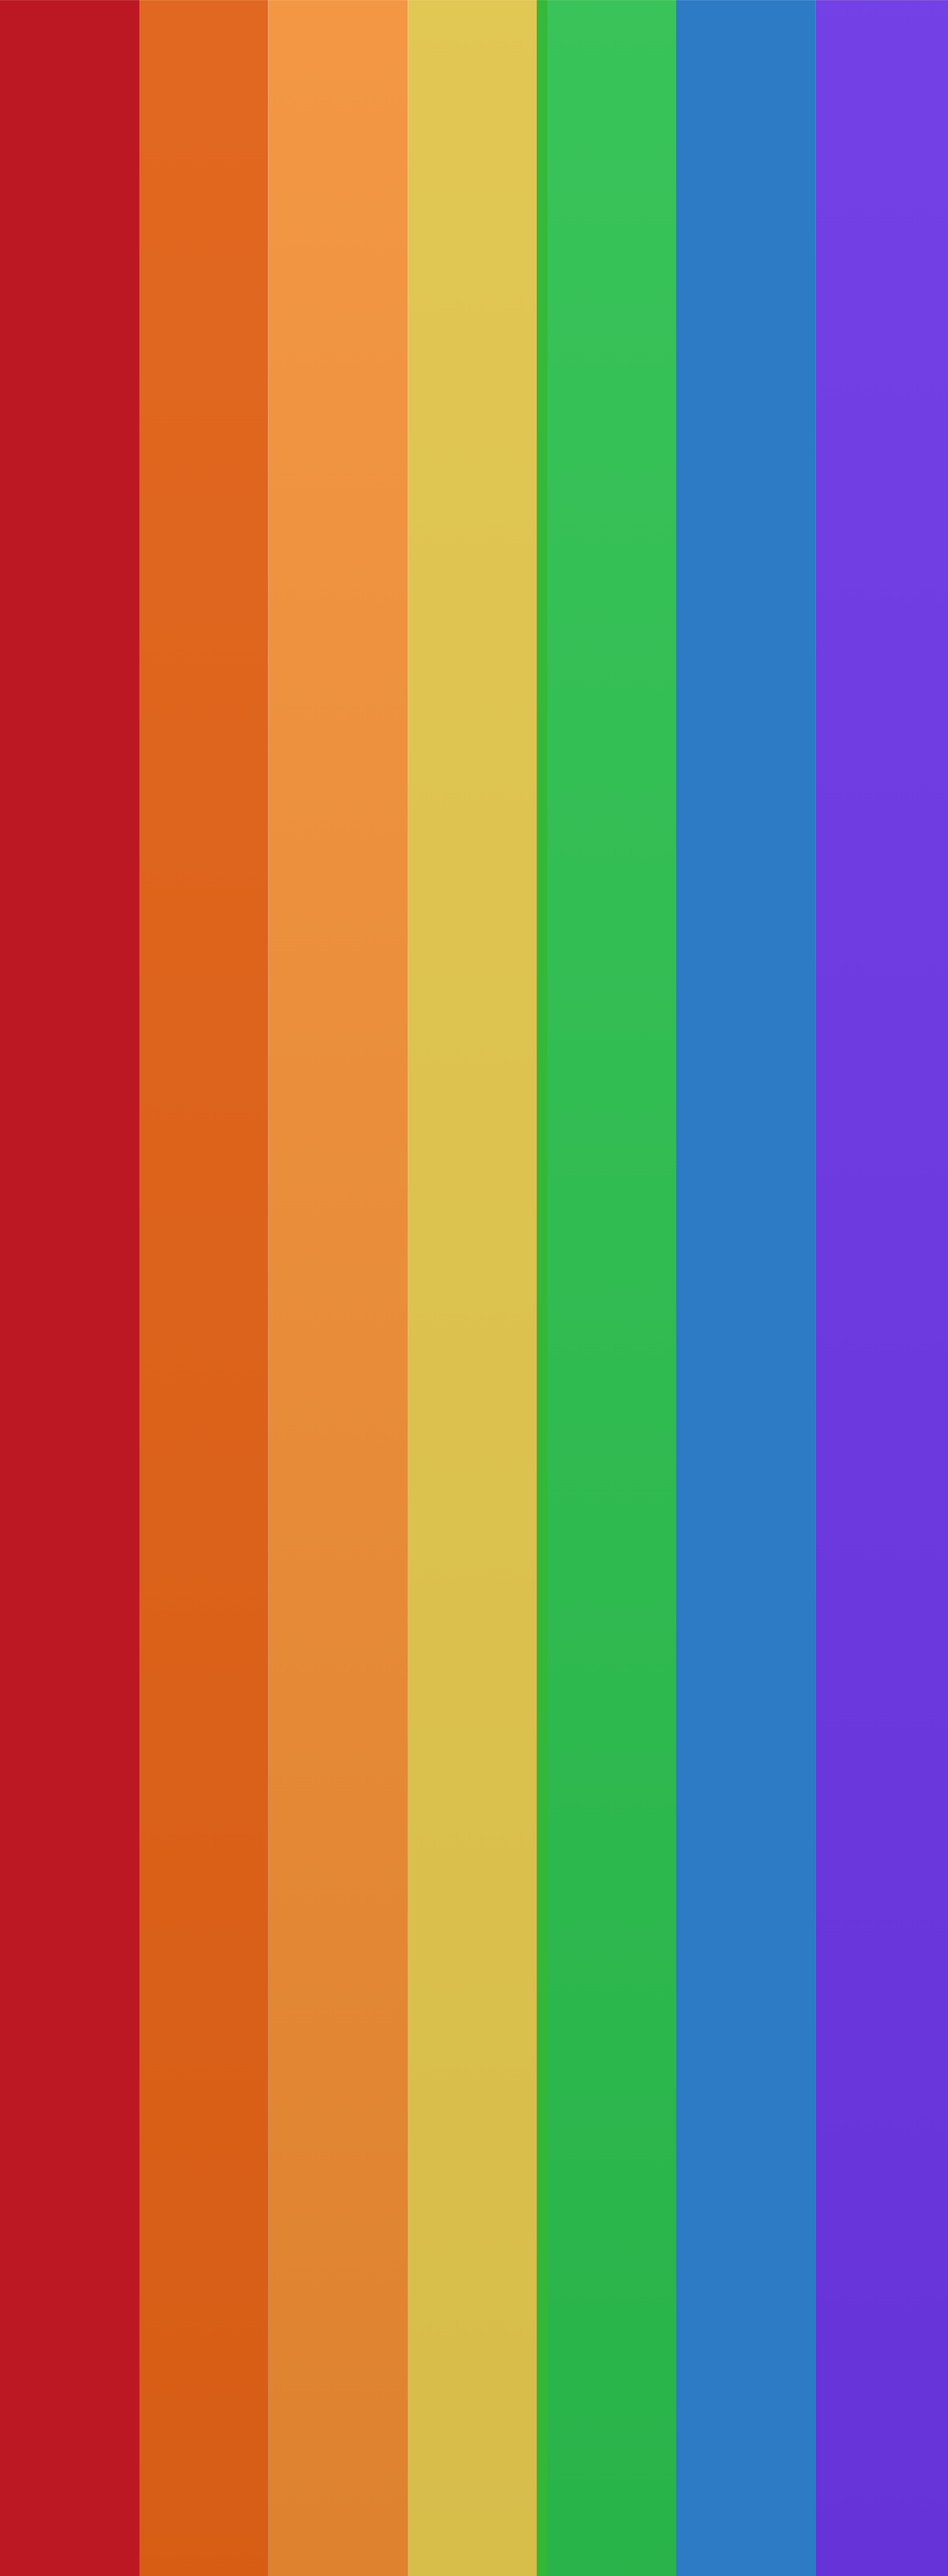
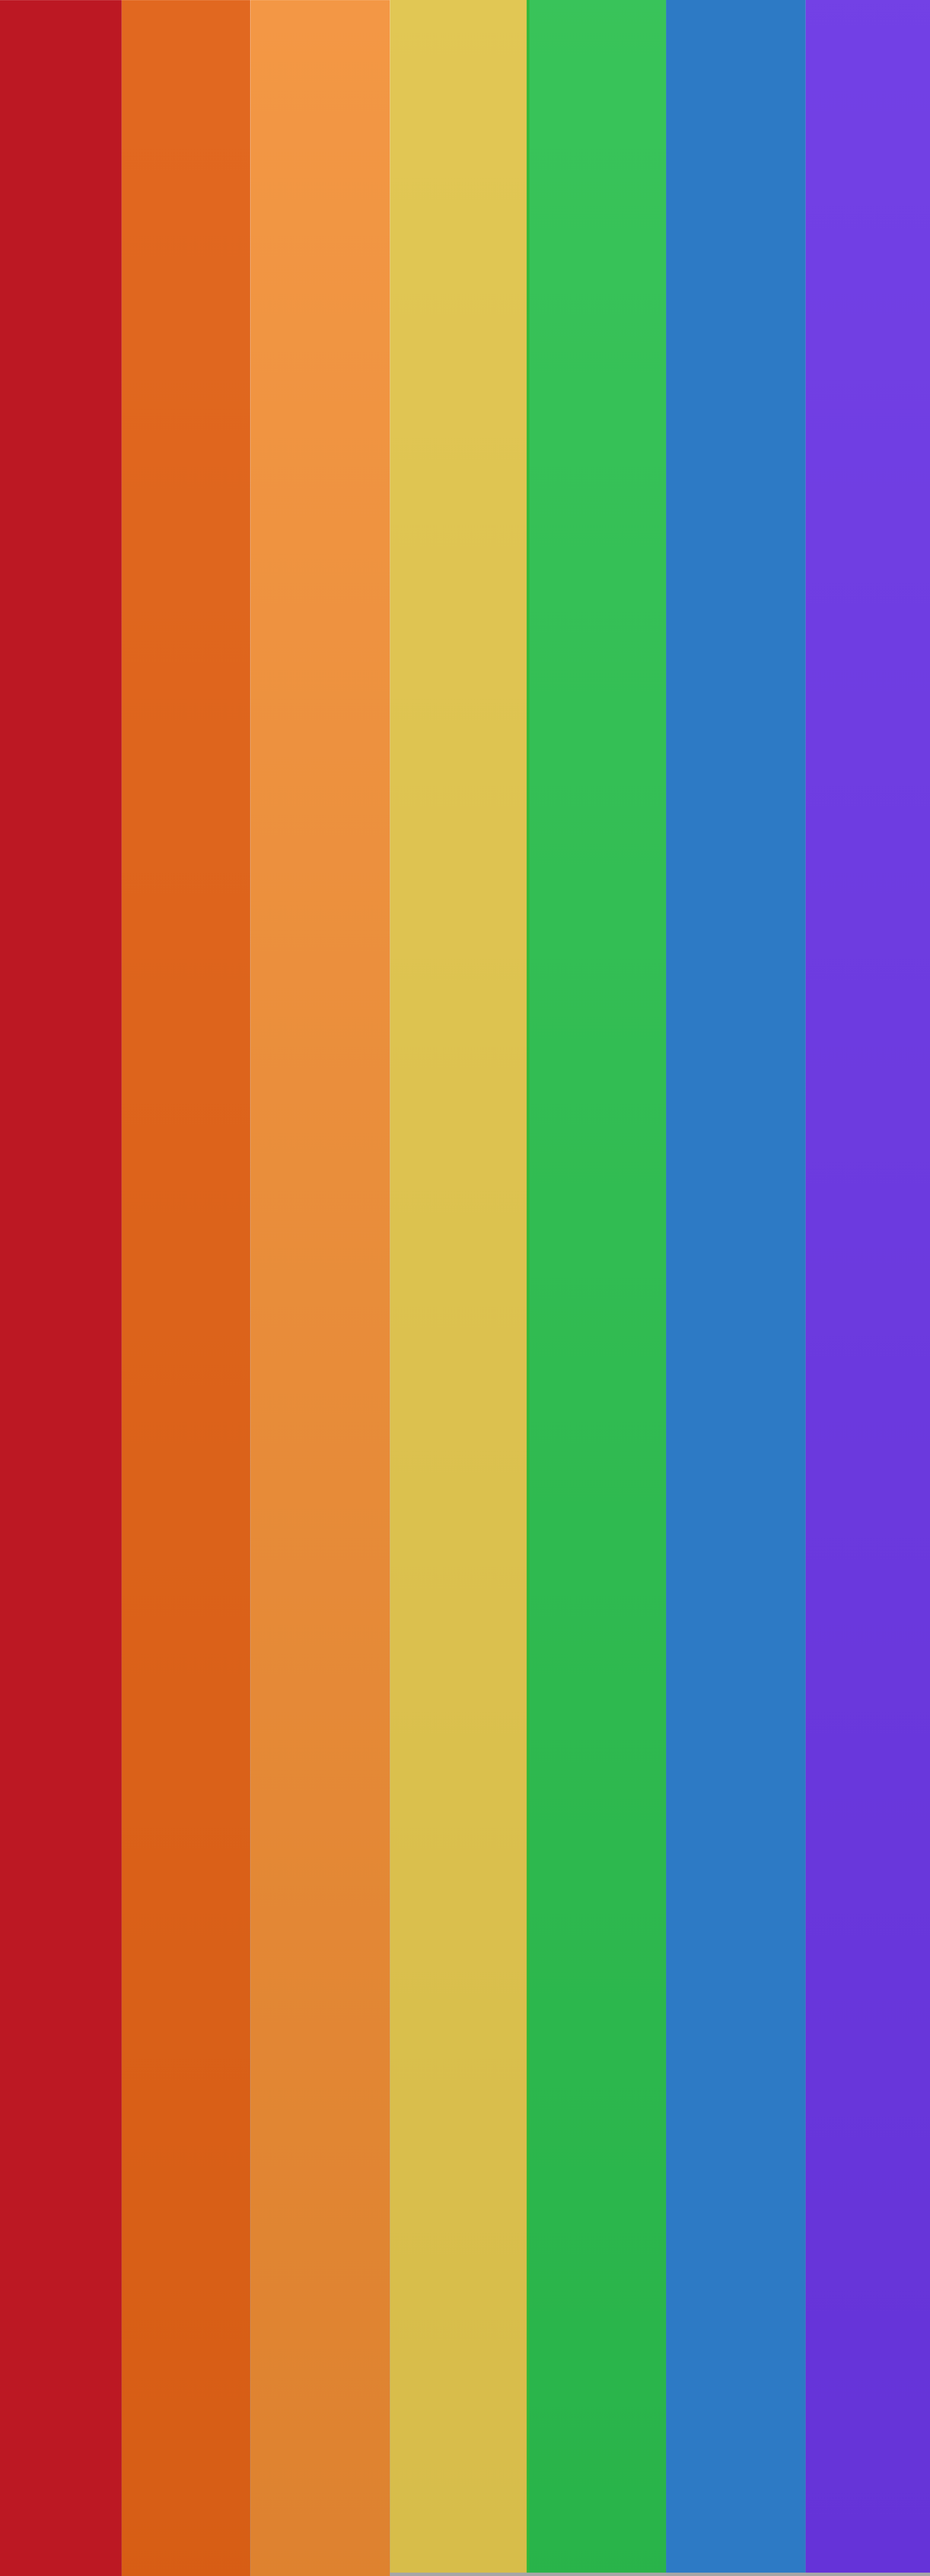
Set grid layout for page and add some footer content

diff --git a/src/pages/index.tsx b/src/pages/index.tsx
@@ -1,133 +1,22 @@
 import React from 'react';
-import Navbar from '../components/navbar';
 import Banner from '../components/banner';
+import styles from '../styles/Home.module.css';
 
 export default function Home() {
   return (
-    <>
-      <Navbar/>
-      <Banner></Banner>
-      <p>"Sed ut perspiciatis unde omnis iste natus error sit voluptatem accusantium 
-        doloremque laudantium, totam rem aperiam, eaque ipsa quae ab illo inventore veritatis 
-        et quasi architecto beatae vitae dicta sunt explicabo. Nemo enim ipsam voluptatem quia 
-        voluptas sit aspernatur aut odit aut fugit, sed quia consequuntur magni dolores eos qui 
-        ratione voluptatem sequi nesciunt. Neque porro quisquam est, qui dolorem ipsum quia dolor
-         sit amet, consectetur, adipisci velit, sed quia non numquam eius modi tempora incidunt 
-         ut labore et dolore magnam aliquam quaerat voluptatem. Ut enim ad minima veniam, quis n
-         ostrum exercitationem ullam corporis suscipit laboriosam, nisi ut aliquid ex ea commodi c
-         onsequatur? Quis autem vel eum iure reprehenderit qui in ea voluptate velit esse quam nih
-         il molestiae consequatur, vel illum qui dolorem eum fugiat quo voluptas nulla pariatur?"</p>
-         <p>"Sed ut perspiciatis unde omnis iste natus error sit voluptatem accusantium 
-        doloremque laudantium, totam rem aperiam, eaque ipsa quae ab illo inventore veritatis 
-        et quasi architecto beatae vitae dicta sunt explicabo. Nemo enim ipsam voluptatem quia 
-        voluptas sit aspernatur aut odit aut fugit, sed quia consequuntur magni dolores eos qui 
-        ratione voluptatem sequi nesciunt. Neque porro quisquam est, qui dolorem ipsum quia dolor
-         sit amet, consectetur, adipisci velit, sed quia non numquam eius modi tempora incidunt 
-         ut labore et dolore magnam aliquam quaerat voluptatem. Ut enim ad minima veniam, quis n
-         ostrum exercitationem ullam corporis suscipit laboriosam, nisi ut aliquid ex ea commodi c
-         onsequatur? Quis autem vel eum iure reprehenderit qui in ea voluptate velit esse quam nih
-         il molestiae consequatur, vel illum qui dolorem eum fugiat quo voluptas nulla pariatur?"</p>
-         <p>"Sed ut perspiciatis unde omnis iste natus error sit voluptatem accusantium 
-        doloremque laudantium, totam rem aperiam, eaque ipsa quae ab illo inventore veritatis 
-        et quasi architecto beatae vitae dicta sunt explicabo. Nemo enim ipsam voluptatem quia 
-        voluptas sit aspernatur aut odit aut fugit, sed quia consequuntur magni dolores eos qui 
-        ratione voluptatem sequi nesciunt. Neque porro quisquam est, qui dolorem ipsum quia dolor
-         sit amet, consectetur, adipisci velit, sed quia non numquam eius modi tempora incidunt 
-         ut labore et dolore magnam aliquam quaerat voluptatem. Ut enim ad minima veniam, quis n
-         ostrum exercitationem ullam corporis suscipit laboriosam, nisi ut aliquid ex ea commodi c
-         onsequatur? Quis autem vel eum iure reprehenderit qui in ea voluptate velit esse quam nih
-         il molestiae consequatur, vel illum qui dolorem eum fugiat quo voluptas nulla pariatur?"</p>
-         <p>"Sed ut perspiciatis unde omnis iste natus error sit voluptatem accusantium 
-        doloremque laudantium, totam rem aperiam, eaque ipsa quae ab illo inventore veritatis 
-        et quasi architecto beatae vitae dicta sunt explicabo. Nemo enim ipsam voluptatem quia 
-        voluptas sit aspernatur aut odit aut fugit, sed quia consequuntur magni dolores eos qui 
-        ratione voluptatem sequi nesciunt. Neque porro quisquam est, qui dolorem ipsum quia dolor
-         sit amet, consectetur, adipisci velit, sed quia non numquam eius modi tempora incidunt 
-         ut labore et dolore magnam aliquam quaerat voluptatem. Ut enim ad minima veniam, quis n
-         ostrum exercitationem ullam corporis suscipit laboriosam, nisi ut aliquid ex ea commodi c
-         onsequatur? Quis autem vel eum iure reprehenderit qui in ea voluptate velit esse quam nih
-         il molestiae consequatur, vel illum qui dolorem eum fugiat quo voluptas nulla pariatur?"</p>
-         <p>"Sed ut perspiciatis unde omnis iste natus error sit voluptatem accusantium 
-        doloremque laudantium, totam rem aperiam, eaque ipsa quae ab illo inventore veritatis 
-        et quasi architecto beatae vitae dicta sunt explicabo. Nemo enim ipsam voluptatem quia 
-        voluptas sit aspernatur aut odit aut fugit, sed quia consequuntur magni dolores eos qui 
-        ratione voluptatem sequi nesciunt. Neque porro quisquam est, qui dolorem ipsum quia dolor
-         sit amet, consectetur, adipisci velit, sed quia non numquam eius modi tempora incidunt 
-         ut labore et dolore magnam aliquam quaerat voluptatem. Ut enim ad minima veniam, quis n
-         ostrum exercitationem ullam corporis suscipit laboriosam, nisi ut aliquid ex ea commodi c
-         onsequatur? Quis autem vel eum iure reprehenderit qui in ea voluptate velit esse quam nih
-         il molestiae consequatur, vel illum qui dolorem eum fugiat quo voluptas nulla pariatur?"</p>
-         <p>"Sed ut perspiciatis unde omnis iste natus error sit voluptatem accusantium 
-        doloremque laudantium, totam rem aperiam, eaque ipsa quae ab illo inventore veritatis 
-        et quasi architecto beatae vitae dicta sunt explicabo. Nemo enim ipsam voluptatem quia 
-        voluptas sit aspernatur aut odit aut fugit, sed quia consequuntur magni dolores eos qui 
-        ratione voluptatem sequi nesciunt. Neque porro quisquam est, qui dolorem ipsum quia dolor
-         sit amet, consectetur, adipisci velit, sed quia non numquam eius modi tempora incidunt 
-         ut labore et dolore magnam aliquam quaerat voluptatem. Ut enim ad minima veniam, quis n
-         ostrum exercitationem ullam corporis suscipit laboriosam, nisi ut aliquid ex ea commodi c
-         onsequatur? Quis autem vel eum iure reprehenderit qui in ea voluptate velit esse quam nih
-         il molestiae consequatur, vel illum qui dolorem eum fugiat quo voluptas nulla pariatur?"</p>
-         <p>"Sed ut perspiciatis unde omnis iste natus error sit voluptatem accusantium 
-        doloremque laudantium, totam rem aperiam, eaque ipsa quae ab illo inventore veritatis 
-        et quasi architecto beatae vitae dicta sunt explicabo. Nemo enim ipsam voluptatem quia 
-        voluptas sit aspernatur aut odit aut fugit, sed quia consequuntur magni dolores eos qui 
-        ratione voluptatem sequi nesciunt. Neque porro quisquam est, qui dolorem ipsum quia dolor
-         sit amet, consectetur, adipisci velit, sed quia non numquam eius modi tempora incidunt 
-         ut labore et dolore magnam aliquam quaerat voluptatem. Ut enim ad minima veniam, quis n
-         ostrum exercitationem ullam corporis suscipit laboriosam, nisi ut aliquid ex ea commodi c
-         onsequatur? Quis autem vel eum iure reprehenderit qui in ea voluptate velit esse quam nih
-         il molestiae consequatur, vel illum qui dolorem eum fugiat quo voluptas nulla pariatur?"</p>
-         <p>"Sed ut perspiciatis unde omnis iste natus error sit voluptatem accusantium 
-        doloremque laudantium, totam rem aperiam, eaque ipsa quae ab illo inventore veritatis 
-        et quasi architecto beatae vitae dicta sunt explicabo. Nemo enim ipsam voluptatem quia 
-        voluptas sit aspernatur aut odit aut fugit, sed quia consequuntur magni dolores eos qui 
-        ratione voluptatem sequi nesciunt. Neque porro quisquam est, qui dolorem ipsum quia dolor
-         sit amet, consectetur, adipisci velit, sed quia non numquam eius modi tempora incidunt 
-         ut labore et dolore magnam aliquam quaerat voluptatem. Ut enim ad minima veniam, quis n
-         ostrum exercitationem ullam corporis suscipit laboriosam, nisi ut aliquid ex ea commodi c
-         onsequatur? Quis autem vel eum iure reprehenderit qui in ea voluptate velit esse quam nih
-         il molestiae consequatur, vel illum qui dolorem eum fugiat quo voluptas nulla pariatur?"</p>
-         <p>"Sed ut perspiciatis unde omnis iste natus error sit voluptatem accusantium 
-        doloremque laudantium, totam rem aperiam, eaque ipsa quae ab illo inventore veritatis 
-        et quasi architecto beatae vitae dicta sunt explicabo. Nemo enim ipsam voluptatem quia 
-        voluptas sit aspernatur aut odit aut fugit, sed quia consequuntur magni dolores eos qui 
-        ratione voluptatem sequi nesciunt. Neque porro quisquam est, qui dolorem ipsum quia dolor
-         sit amet, consectetur, adipisci velit, sed quia non numquam eius modi tempora incidunt 
-         ut labore et dolore magnam aliquam quaerat voluptatem. Ut enim ad minima veniam, quis n
-         ostrum exercitationem ullam corporis suscipit laboriosam, nisi ut aliquid ex ea commodi c
-         onsequatur? Quis autem vel eum iure reprehenderit qui in ea voluptate velit esse quam nih
-         il molestiae consequatur, vel illum qui dolorem eum fugiat quo voluptas nulla pariatur?"</p>
-         <p>"Sed ut perspiciatis unde omnis iste natus error sit voluptatem accusantium 
-        doloremque laudantium, totam rem aperiam, eaque ipsa quae ab illo inventore veritatis 
-        et quasi architecto beatae vitae dicta sunt explicabo. Nemo enim ipsam voluptatem quia 
-        voluptas sit aspernatur aut odit aut fugit, sed quia consequuntur magni dolores eos qui 
-        ratione voluptatem sequi nesciunt. Neque porro quisquam est, qui dolorem ipsum quia dolor
-         sit amet, consectetur, adipisci velit, sed quia non numquam eius modi tempora incidunt 
-         ut labore et dolore magnam aliquam quaerat voluptatem. Ut enim ad minima veniam, quis n
-         ostrum exercitationem ullam corporis suscipit laboriosam, nisi ut aliquid ex ea commodi c
-         onsequatur? Quis autem vel eum iure reprehenderit qui in ea voluptate velit esse quam nih
-         il molestiae consequatur, vel illum qui dolorem eum fugiat quo voluptas nulla pariatur?"</p>
-         <p>"Sed ut perspiciatis unde omnis iste natus error sit voluptatem accusantium 
-        doloremque laudantium, totam rem aperiam, eaque ipsa quae ab illo inventore veritatis 
-        et quasi architecto beatae vitae dicta sunt explicabo. Nemo enim ipsam voluptatem quia 
-        voluptas sit aspernatur aut odit aut fugit, sed quia consequuntur magni dolores eos qui 
-        ratione voluptatem sequi nesciunt. Neque porro quisquam est, qui dolorem ipsum quia dolor
-         sit amet, consectetur, adipisci velit, sed quia non numquam eius modi tempora incidunt 
-         ut labore et dolore magnam aliquam quaerat voluptatem. Ut enim ad minima veniam, quis n
-         ostrum exercitationem ullam corporis suscipit laboriosam, nisi ut aliquid ex ea commodi c
-         onsequatur? Quis autem vel eum iure reprehenderit qui in ea voluptate velit esse quam nih
-         il molestiae consequatur, vel illum qui dolorem eum fugiat quo voluptas nulla pariatur?"</p>
-         <p>"Sed ut perspiciatis unde omnis iste natus error sit voluptatem accusantium 
-        doloremque laudantium, totam rem aperiam, eaque ipsa quae ab illo inventore veritatis 
-        et quasi architecto beatae vitae dicta sunt explicabo. Nemo enim ipsam voluptatem quia 
-        voluptas sit aspernatur aut odit aut fugit, sed quia consequuntur magni dolores eos qui 
-        ratione voluptatem sequi nesciunt. Neque porro quisquam est, qui dolorem ipsum quia dolor
-         sit amet, consectetur, adipisci velit, sed quia non numquam eius modi tempora incidunt 
-         ut labore et dolore magnam aliquam quaerat voluptatem. Ut enim ad minima veniam, quis n
-         ostrum exercitationem ullam corporis suscipit laboriosam, nisi ut aliquid ex ea commodi c
-         onsequatur? Quis autem vel eum iure reprehenderit qui in ea voluptate velit esse quam nih
-         il molestiae consequatur, vel illum qui dolorem eum fugiat quo voluptas nulla pariatur?"</p>
-         
-    </>
+    <div className={styles.container}>
+      <div className={styles["grid-body"]}>
+        <p>"Sed ut perspiciatis unde omnis iste natus error sit voluptatem accusantium
+          doloremque laudantium, totam rem aperiam, eaque ipsa quae ab illo inventore veritatis
+          et quasi architecto beatae vitae dicta sunt explicabo. Nemo enim ipsam voluptatem quia
+          voluptas sit aspernatur aut odit aut fugit, sed quia consequuntur magni dolores eos qui
+          ratione voluptatem sequi nesciunt. Neque porro quisquam est, qui dolorem ipsum quia dolor
+          sit amet, consectetur, adipisci velit, sed quia non numquam eius modi tempora incidunt
+          ut labore et dolore magnam aliquam quaerat voluptatem. Ut enim ad minima veniam, quis n
+          ostrum exercitationem ullam corporis suscipit laboriosam, nisi ut aliquid ex ea commodi c
+          onsequatur? Quis autem vel eum iure reprehenderit qui in ea voluptate velit esse quam nih
+          il molestiae consequatur, vel illum qui dolorem eum fugiat quo voluptas nulla pariatur?"</p>
+      </div>
+    </div>
   )
 }

diff --git a/src/styles/NavBar.module.css b/src/styles/NavBar.module.css
@@ -2,25 +2,25 @@
     display: flex;
     flex-direction: row;
     height: 150px;
-    width: 100%;
-    margin: 0;
-    padding: 0;
-    background-color: rgb(142, 201, 142);
+    width: 99%;
+    margin-left: 0px;
+    padding-left: 0px;
     position: fixed;
+    background-image: radial-gradient(rgb(213, 215, 236), rgb(162, 168, 233));
 }
 
 .nav-pages {
     display: flex;
     flex-direction: row;
+    width: 100%;
     justify-content: center;
     align-content: center;
-    flex-grow: 2;
     font-size: 1.2rem;
 }
 
 .page {
     display: inline-block;
-    margin: 60px 30px 0px 0px;
+    margin: 60px 15px 0px 15px;
 }
 
 .nav-pages a:hover {
@@ -29,5 +29,12 @@
 }
 
 .logo {
-    width: 150px;
+    width: 100px;
+    height: 100px;
+    margin-top: 20px;
+}
+
+.logo:hover {
+    cursor: pointer;
+    transform: scale(1.2);
 }

diff --git a/src/components/layout.tsx b/src/components/layout.tsx
@@ -1,0 +1,23 @@
+import Navbar from "./navbar";
+import Sidebar from "./sidebar";
+import Footer from "./footer";
+import styles from "../styles/Layout.module.css";
+
+export default function Layout({ children }: any) {
+    return (
+        <div className={styles.wrapper}>
+            <div className={styles.header}>
+            <Navbar />
+            </div>
+            <main className={styles.main}>
+            {children}
+            </main>
+            <div className={styles.sidebar}>
+            <Sidebar></Sidebar>
+            </div>
+            <div className={styles.footer}>
+            <Footer />
+            </div>
+        </div>
+    )
+}

diff --git a/src/components/banner.tsx b/src/components/banner.tsx
@@ -1,10 +1,10 @@
-import image from '../public/rainbow-banner-vertical.png';
+import image from '../public/rainbow-banner.png';
 import styles from '../styles/Banner.module.css';
 
 export default function Banner() {
     return (
-        <div>
-            <img src={image.src} alt="rainbow-banner" style={{width: '150px', height: '100%', position: 'fixed', backgroundRepeat: 'repeat', opacity: '75%'}} />
+        <div className={styles.banner}>
+            <img src={image.src} alt="rainbow-banner" className={styles.image} />
         </div>
     )
 }

diff --git a/src/components/navbar.tsx b/src/components/navbar.tsx
@@ -9,7 +9,7 @@ export default function Navbar() {
             <>
             <div className={styles["nav-container"]}>
                 <nav className={styles["nav-pages"]}>
-                    <div className={styles.page} onClick={() => router.push('/')}>
+                    <div onClick={() => router.push('/')}>
                         <img src={logo.src} alt="Project Rainbow Logo" className={styles.logo} />
                     </div>
                     <div className={styles.page} onClick={() => router.push('/about')}>

diff --git a/src/components/footer.tsx b/src/components/footer.tsx
@@ -1,0 +1,13 @@
+import { colors } from "@mui/material"
+import { blue } from "@mui/material/colors"
+
+export default function Footer() {
+    return (
+        <div style={{display: 'flex', justifyContent: 'space-evenly', alignItems: 'center', background: 'rgb(213, 215, 236)'}}>
+        <p> 1234 Rainbow Rd <br />
+            Morgantown, WV 25508 <br />
+        </p>
+        <p> E: projectrainbowwv@gmail.com</p>
+        </div>
+    )
+}

diff --git a/src/styles/Layout.module.css b/src/styles/Layout.module.css
@@ -1,0 +1,25 @@
+.wrapper {
+    display: grid;
+    grid-template-areas: 
+                'header header'
+                'main sidebar'
+                'footer footer';
+    grid-template-columns: 80% 20%;
+    grid-template-rows: 150px auto 50px;
+}
+
+.main {
+    grid-area: main;
+}
+
+.sidebar {
+    grid-area: sidebar;
+}
+
+.footer {
+    grid-area: footer;
+}
+
+.header {
+    grid-area: header;
+}

diff --git a/src/pages/_app.tsx b/src/pages/_app.tsx
@@ -1,8 +1,11 @@
 import '@/styles/globals.css'
 import type { AppProps } from 'next/app'
+import Layout from '../components/layout';
 
 export default function App({ Component, pageProps }: AppProps) {
   return (
+    <Layout>
       <Component {...pageProps} />
+    </Layout>
   )
 }

diff --git a/src/pages/about.tsx b/src/pages/about.tsx
@@ -4,7 +4,6 @@ import Profile from '../components/profile';
 export default function About() {
     return (
         <>
-            <Navbar></Navbar>
             <div>
                 <h1>Meet the Team</h1>
                 <Profile/>

diff --git a/src/pages/events.tsx b/src/pages/events.tsx
@@ -1,9 +1,11 @@
+import React from 'react';
+
 import Navbar from "@/components/navbar";
 
 export default function Events() {
     return (
         <>
-        <Navbar/>
+        <h1>Events</h1>
         </>
     )
 }

diff --git a/src/pages/donate.tsx b/src/pages/donate.tsx
@@ -1,9 +1,10 @@
+import React from 'react';
 import Navbar from '@/components/navbar';
 
 export default function Donate() {
     return (
         <>
-        <Navbar/>
+        <h1>Donate</h1>
         </>
     )
 }

diff --git a/src/styles/globals.css b/src/styles/globals.css
@@ -2,6 +2,6 @@
 @tailwind components;
 @tailwind utilities; */
 
-body {
-    display: grid;
-}
+/* body {
+    background-image: linear-gradient(to bottom, rgb(243, 243, 228), rgb(255, 255, 255));
+} */
